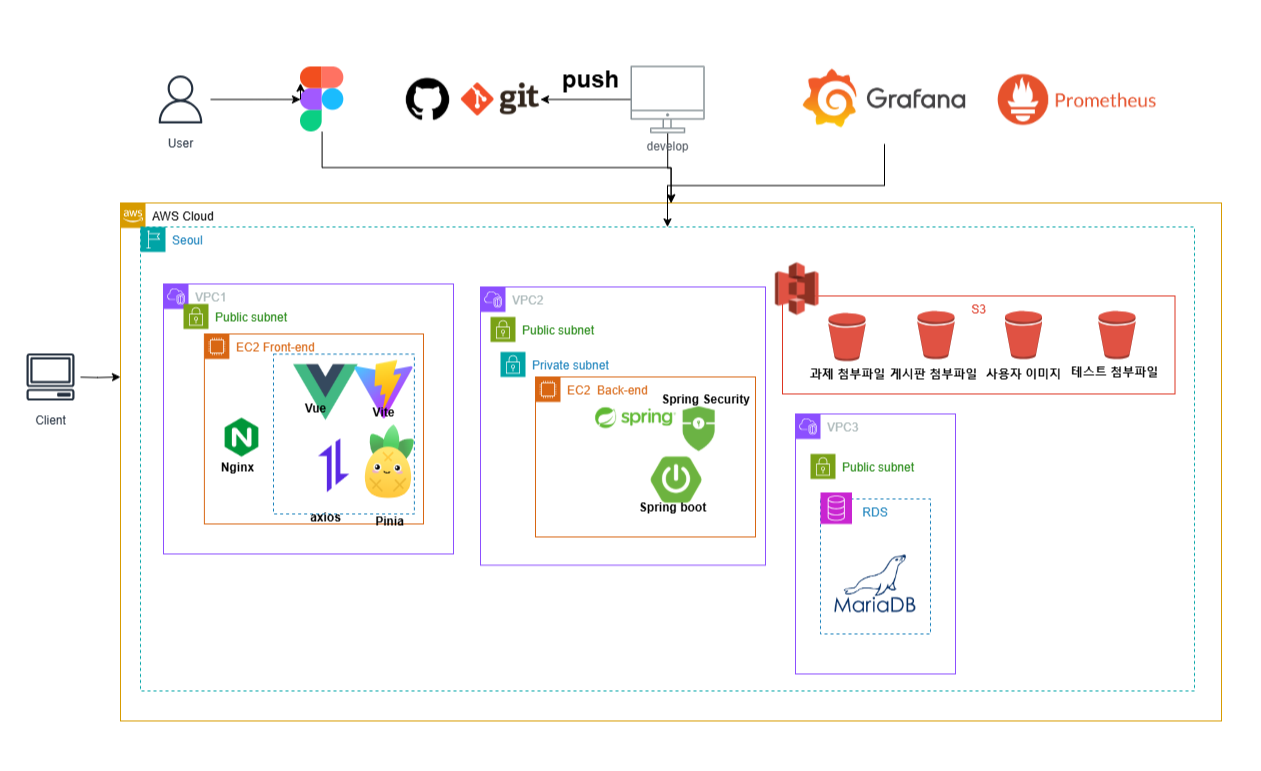
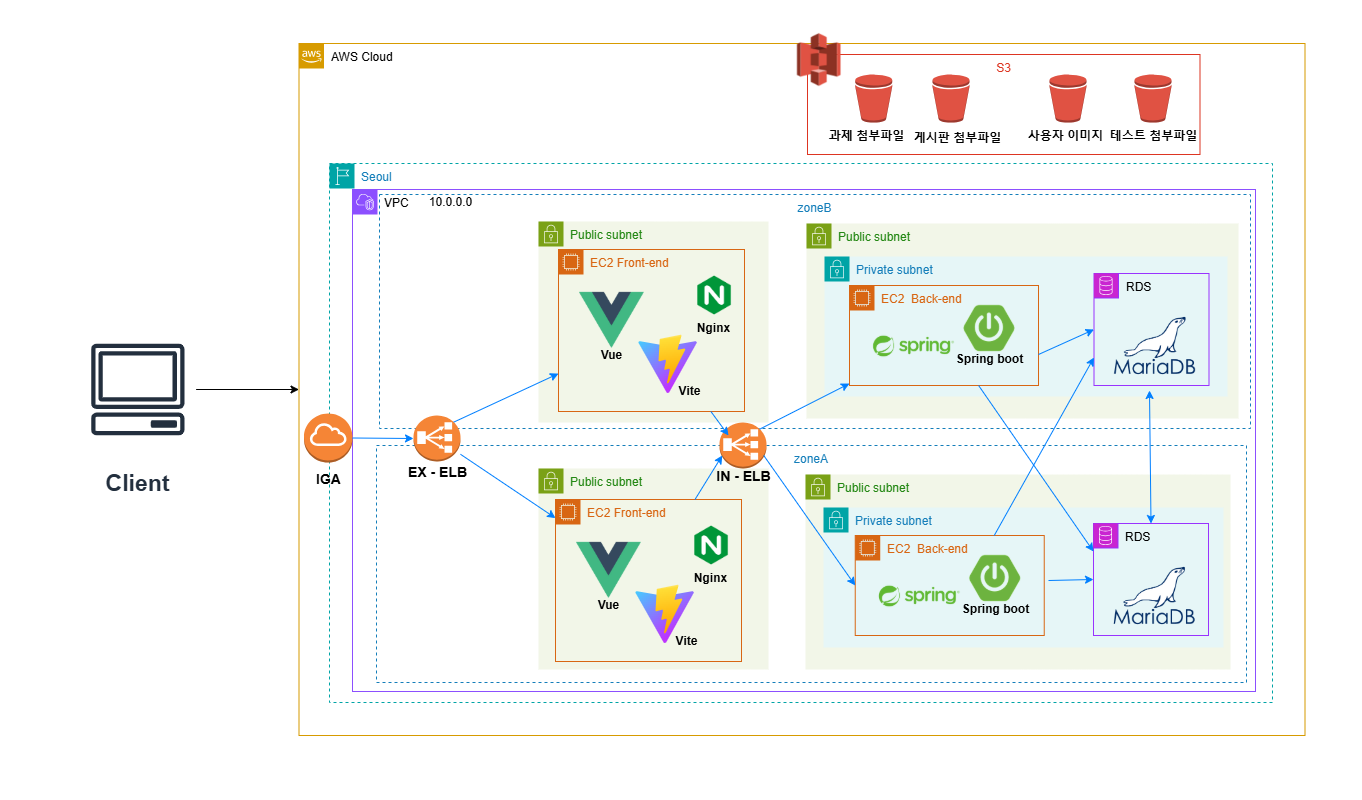
[Doc] ReadMe 수정 - 시스템 아키텍처 설명 추가 & 기능 테스트 이미지 폴더 추가가

diff --git a/README.md b/README.md
@@ -89,13 +89,19 @@ DB<br>
 <details>
 <summary> Amazon S3 </summary>
 
-- 사용자 이미지 파일, 게시판 첨부 파일, 과제 첨부 파일, 테스트 첨부 파일 등 서비스에 필요한 파일을 저장하기 위해 S3를 사용하였습니다.
+- 사용자 이미지 파일, 게시판 첨부 파일, 과제 첨부 파일, 테스트 첨부 파일 등 서비스에 필요한 파일을 크기 제한 없이 저장하기 위해 S3를 사용하였습니다.
 </details>
 
 <details>
 <summary> EC2 </summary>
 
-- 2대의 EC2를 이용하여 한대는 프론트서버, 한대는 백엔드 서버를 설정하였습니다. 
+- 유연한 서버 관리를 위해 2대의 EC2를 이용하여 한대는 프론트서버, 한대는 백엔드 서버를 설정하였습니다. 
+</details>
+
+<details>
+<summary> ELB </summary>
+
+- 여러 서버에 요청을 분산하여 서버 과부하를 방지하고, 부하를 균등하게 분배하기 위해 ELB를 사용하였습니다. 
 </details>
 
 
